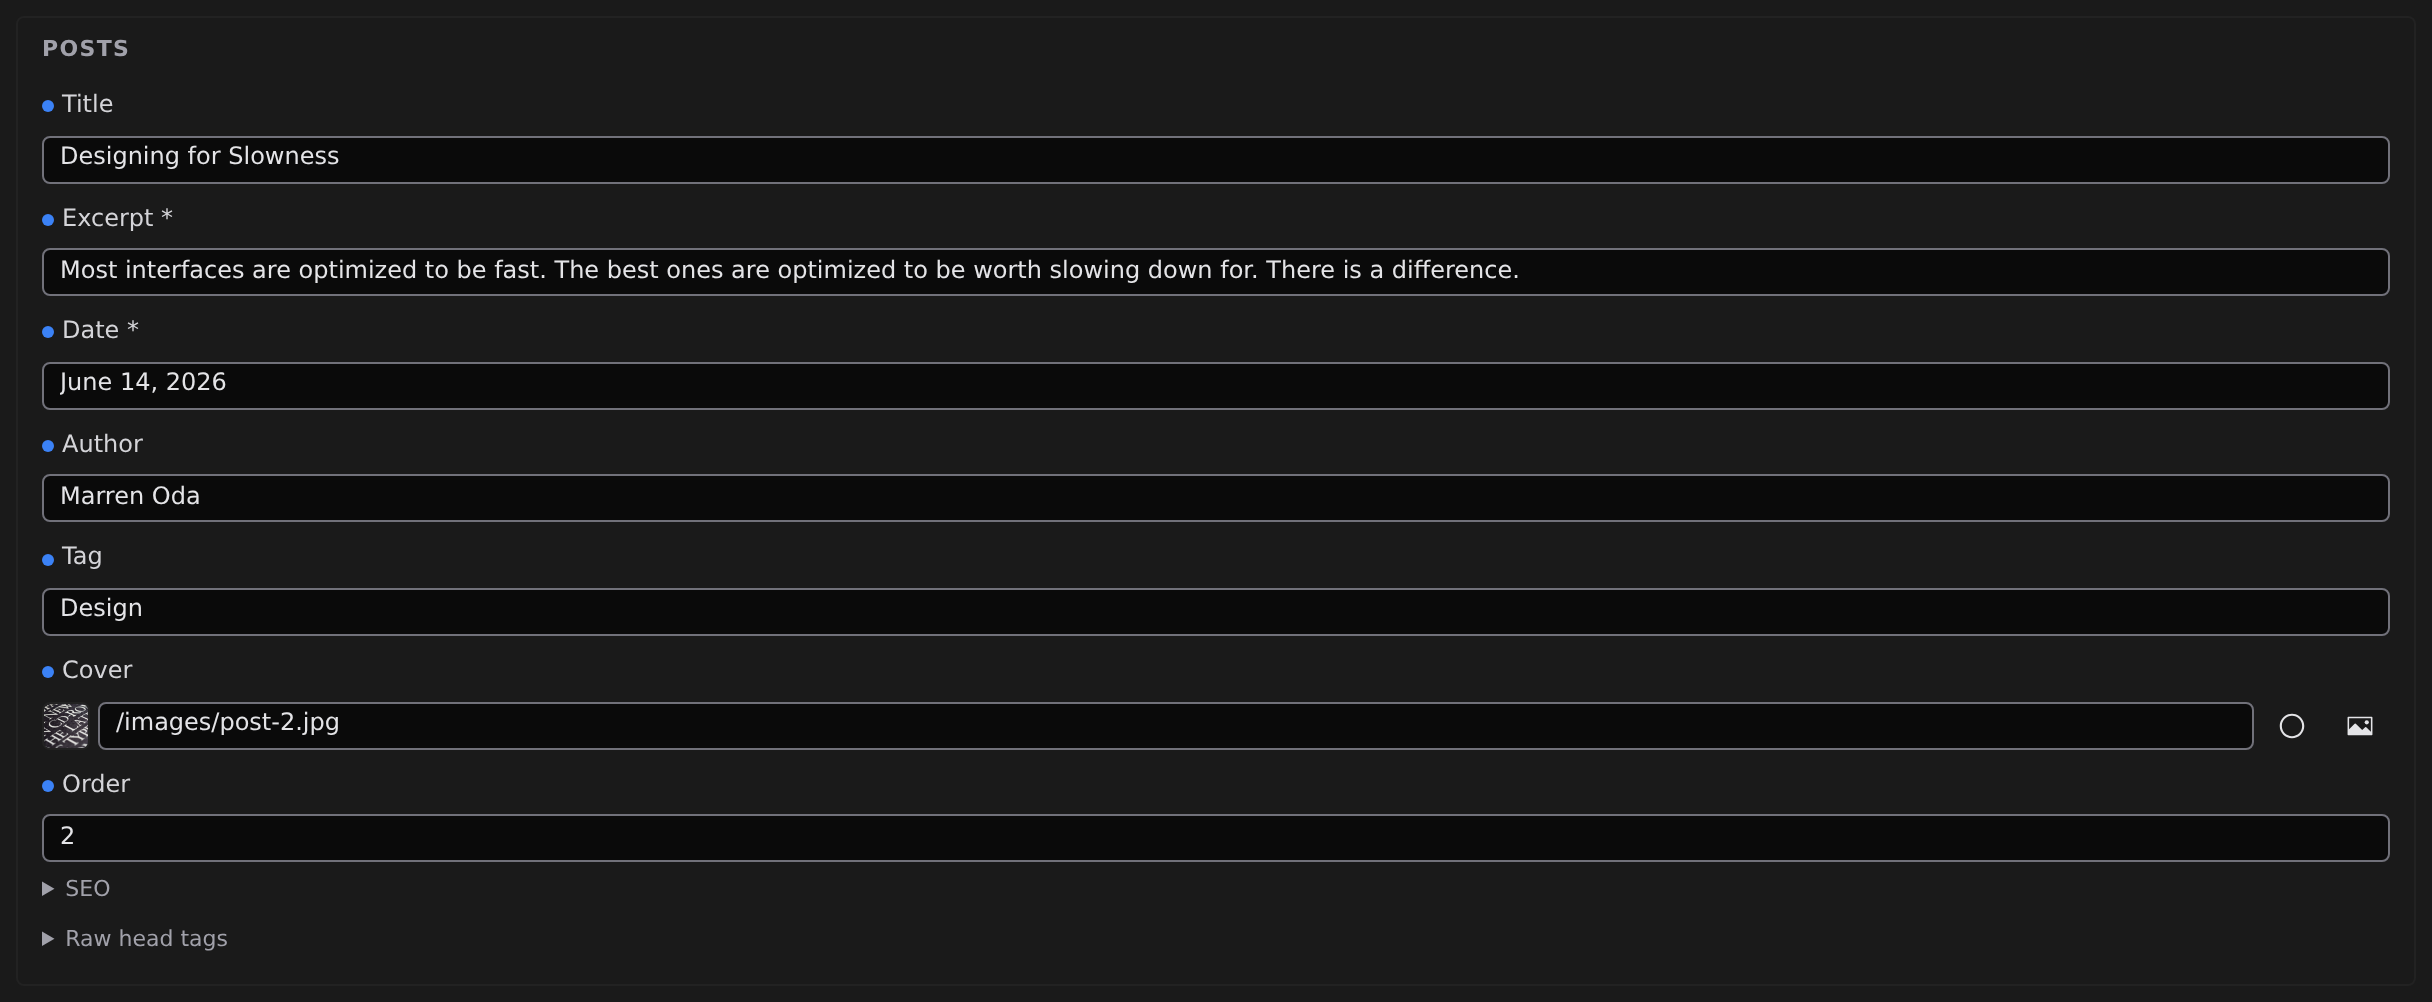
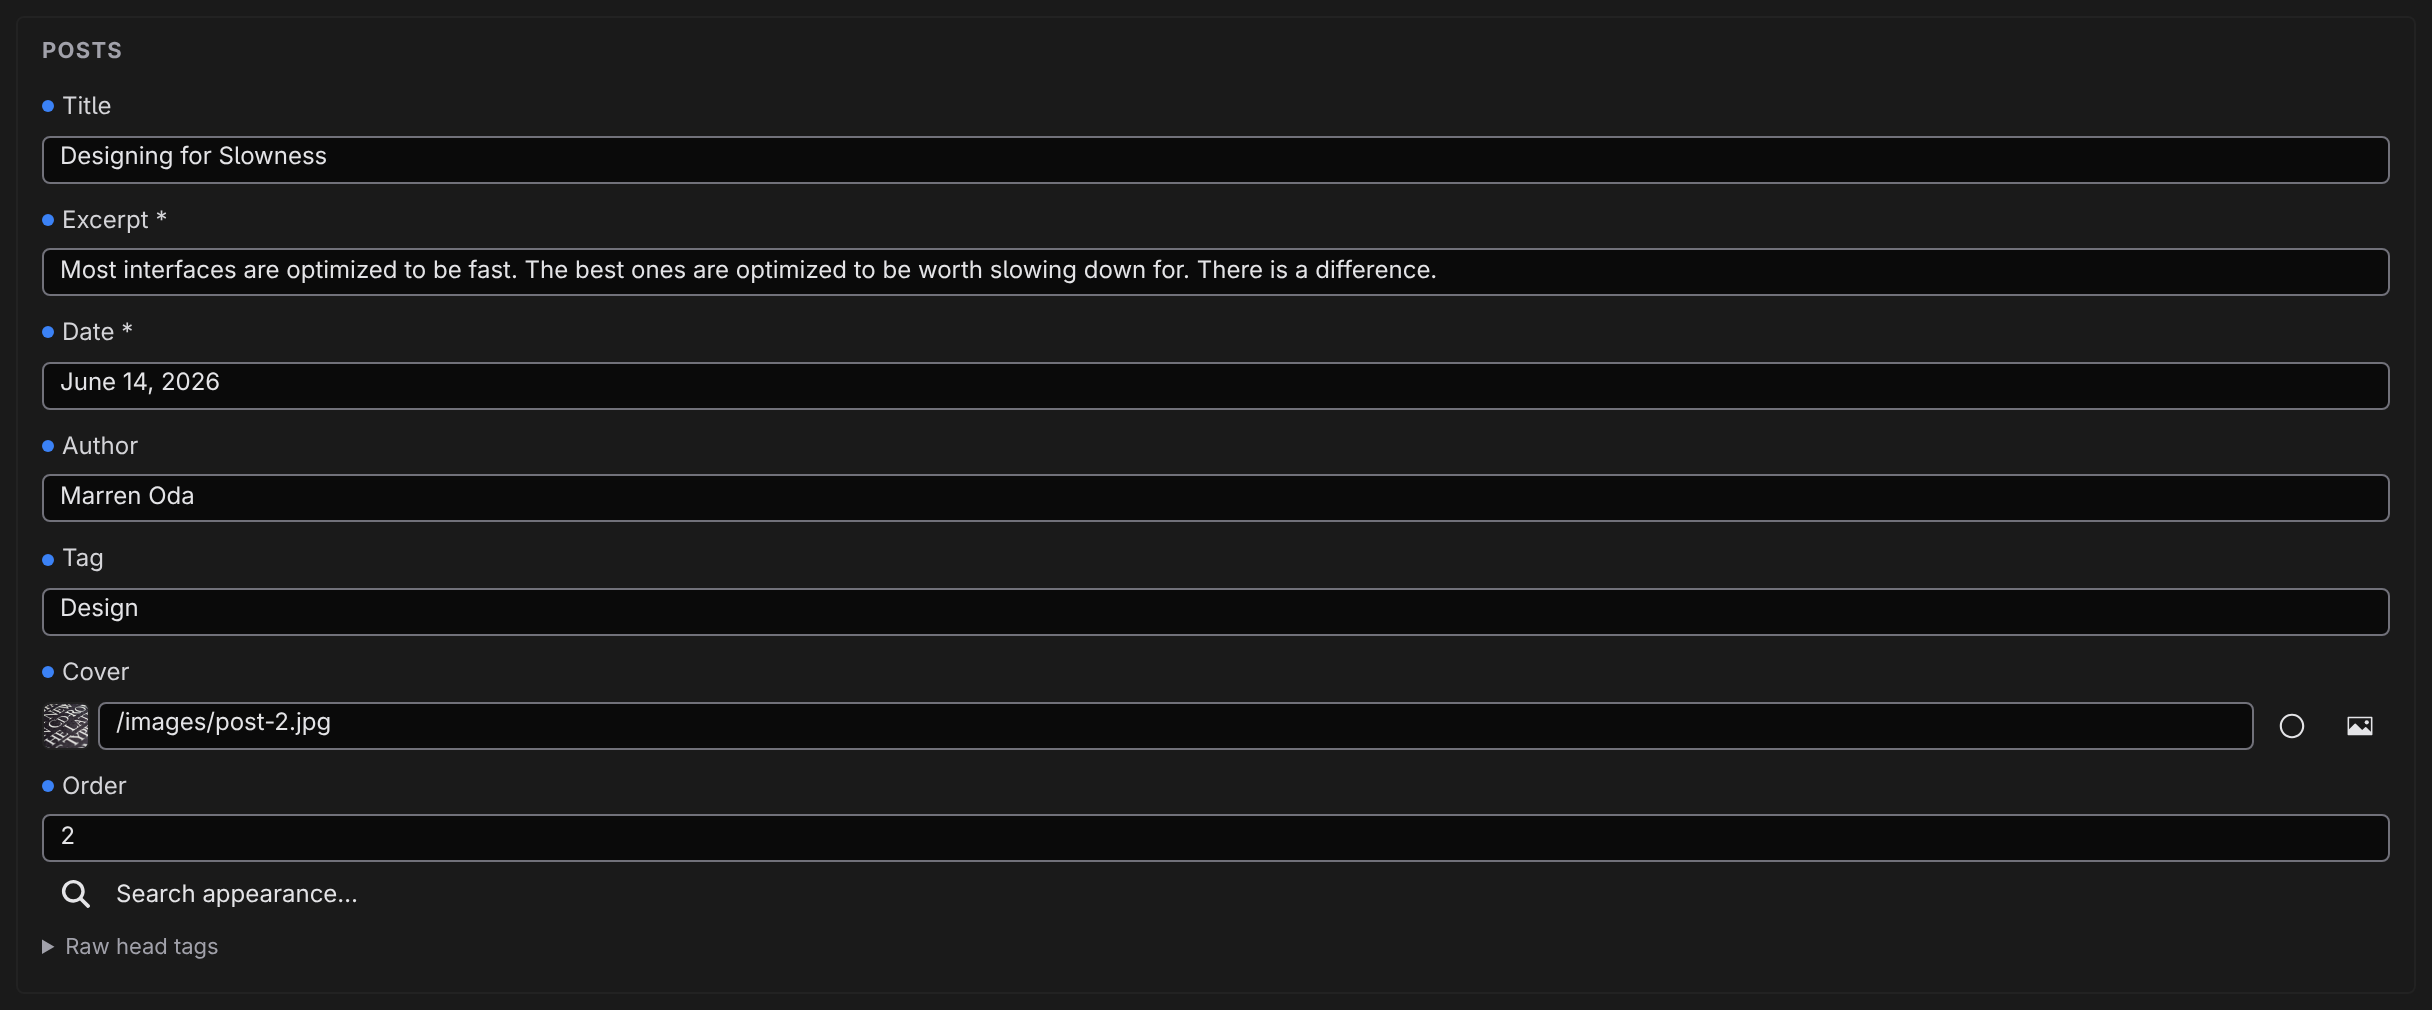
docs(studio): the pages and docstrings that still said "the SEO block"
`docs:sync` named three files the move touched, and two of them were describing
a surface that no longer exists:

- `projects/media.md` sent readers to "the Icon and social-image fields in the
  Document Header card's SEO block" for the Upload button. It also gains the one
  sentence the layer fix earns — the picker opens above whatever called it, so it
  behaves the same in a panel and in a window.
- `interface.md` listed the SEO block among what the Document Header draws.
- Two docstrings (`frontmatter-panel.ts`, `head-panel.ts`) still enumerated it as
  part of the card.

`studio/editing.md` needed nothing: its prose is about writing inline, and only
its picture contains the card.

Re-captured `properties-bar` (Δ100% — the card is a great deal shorter without a
disclosed SEO form inside it) and `mode-edit` (Δ10%), rather than leaving two
stale pictures for the lane to correct on a branch whose prose already moved.

diff --git a/packages/studio/src/panels/head-panel.ts b/packages/studio/src/panels/head-panel.ts
@@ -1153,10 +1153,11 @@ export function buildHeadDoc(doc: JxMutableNode, fm: Record<string, unknown>): J
  *
  * **`tab` is a parameter for the same reason {@link renderFmField}'s is.** It resolved
  * `activeTab.value` itself, and the Document Header card calls it for the CONTENT branch of every
- * mutation it makes — Title, Clear title, the whole SEO block, the Layout picker. The card is drawn
- * per pane, so on a markdown page the card in one pane retitled the document in the other. The
- * comment beside the card's JSON branch has claimed since P8 that this was fixed; the fix reached
- * the JSON branch only, and this is the half that was left.
+ * mutation it makes — Title, Clear title, the Layout picker — as does Search appearance, which is
+ * where the head fields went and which takes its tab the same way. The card is drawn per pane, so
+ * on a markdown page the card in one pane retitled the document in the other. The comment beside
+ * the card's JSON branch has claimed since P8 that this was fixed; the fix reached the JSON branch
+ * only, and this is the half that was left.
  *
  * @param {Tab | null} tab The document to commit into.
  * @param {() => void} rerender

diff --git a/packages/studio/src/panels/frontmatter-panel.ts b/packages/studio/src/panels/frontmatter-panel.ts
@@ -18,8 +18,8 @@
  *
  * What it renders instead: **any** document with frontmatter or `$head`, in every named layout and
  * in both authoring views of the stage — Title, Route, the layout picker, the
- * schema-and-frontmatter field list, a collapsible SEO block and a "Raw head tags" disclosure.
- * `hasDocumentHeader` is the whole predicate, and it is a fact about the DOCUMENT.
+ * schema-and-frontmatter field list, the door to Search appearance and a "Raw head tags"
+ * disclosure. `hasDocumentHeader` is the whole predicate, and it is a fact about the DOCUMENT.
  *
  * **One reserved-key policy, one `collectFmFields` call.** The two field sets this card merges used
  * to disagree: this module passed an empty reserved set and `head-panel.ts` passed `{title}`, so

diff --git a/packages/studio/src/panels/seo-modal.ts b/packages/studio/src/panels/seo-modal.ts
@@ -51,7 +51,7 @@ import type { Tab } from "../tabs/tab";
 import type { AnyCommand, CommandRegistry } from "../commands/registry";
 import type { TemplateResult } from "lit-html";
 
-// ─── The SEO block ────────────────────────────────────────────────────────────
+// ─── The body ─────────────────────────────────────────────────────────────────
 
 /*
  * Two rendered previews, a resolved-field list and a warning list, over the MERGED head — and no

diff --git a/docs/studio/interface.md b/docs/studio/interface.md
@@ -90,7 +90,7 @@ If the write itself fails, the reason arrives as a **Problem** in the [Bottom do
 
 The middle of the window is the **pane grid**: one editor pane, or two side by side with a divider you can drag (:kbd[⌘\] splits, :kbd[⌘⌥0] focuses the second one). A pane renders one document in one editor — **Canvas**, **Code**, **Grid**, **Diff**, **Entry**, **Library** or **Project Styles** — and carries its own strip of open documents, its own jump bar and its own context bar, so everything around a document describes the pane it is in. Both panes can be a live canvas, and clicking into one is what points the Inspector, the Outline and the keyboard at it. See **[Documents and panes](/docs/studio/interface/tabs)**.
 
-A Canvas pane renders the open file live. Panning, zooming, selection and direct manipulation are covered in **[The canvas](/docs/studio/interface/canvas)**. A page's **Document Header** — title, route, layout picker and the SEO block — is drawn at the top of the artefact itself, inside the stage, because it is part of the document rather than a view of it.
+A Canvas pane renders the open file live. Panning, zooming, selection and direct manipulation are covered in **[The canvas](/docs/studio/interface/canvas)**. A page's **Document Header** — title, route, layout picker and the way in to Search appearance — is drawn at the top of the artefact itself, inside the stage, because it is part of the document rather than a view of it.
 
 ## The jump bar
 

diff --git a/docs/studio/projects/media.md b/docs/studio/projects/media.md
@@ -38,9 +38,9 @@ Dropping onto a component that takes a single image — a card with a cover pict
 
 ## Upload from an image field
 
-Wherever Studio asks for an image or file — an image's **Content** tab, a frontmatter field, the Icon and social-image fields in the **Document Header** card's SEO block — the field has an **Upload** button beside the browse button. Click it, pick a file, and Studio adds it to the project and fills the field in for you.
+Wherever Studio asks for an image or file — an image's **Content** tab, a frontmatter field, the Icon and social-image fields in **[Search appearance](/docs/studio/editing/frontmatter)** — the field has an **Upload** button beside the browse button. Click it, pick a file, and Studio adds it to the project and fills the field in for you.
 
-The browse button opens the picker: a search box over the media already in `public/`, matched on name or path, with a thumbnail for every image.
+The browse button opens the picker: a search box over the media already in `public/`, matched on name or path, with a thumbnail for every image. It opens above whatever surface it was called from, so it works the same in a panel and in a window like Search appearance.
 
 ![The media picker popover open over an image field, showing the search field and thumbnail list](../../images/media-picker.png)
 
